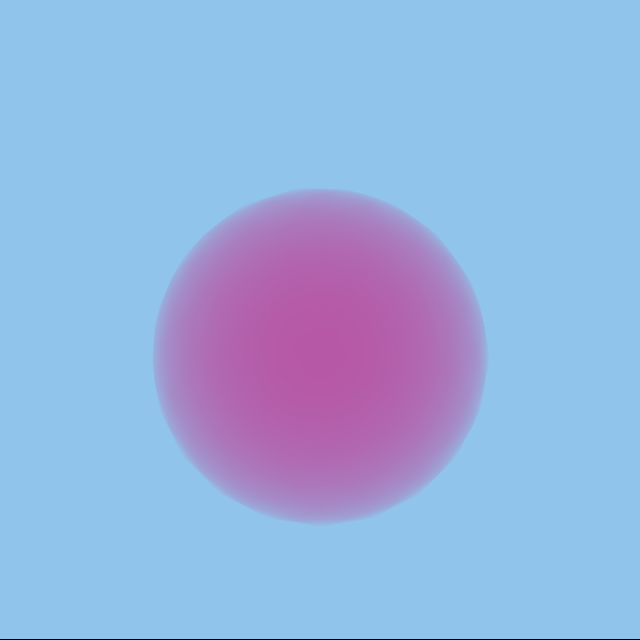
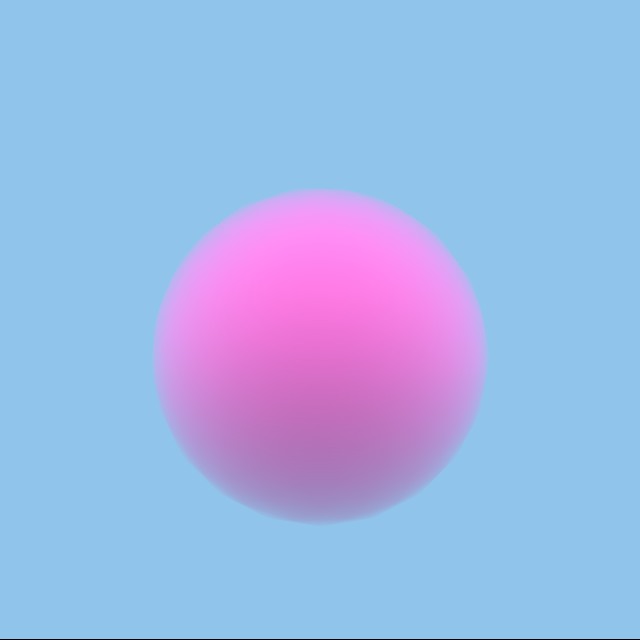
scratchpixel forward ray marcher working

Changed region(s): [[0.2188, 0.2812, 0.7812, 0.6562]]

diff --git a/VolumeRenderer/RayTracer/IntersectionHandlers/ScratchPixel2IntersectionHandler.cpp b/VolumeRenderer/RayTracer/IntersectionHandlers/ScratchPixel2IntersectionHandler.cpp
@@ -10,18 +10,47 @@ Vec3f ScratchPixel2IntersectionHandler::HandleIntersection(HandleIntersectionDat
 		//exit intersection
 		if (data->previousObjectId == data->objectId)
 		{
+			float transparency = 1;
+			Vec3f result = Vec3f(0.0f);
 			auto distance = data->tFar;
+
+			Vec3f light_dir{ 0, 1, 0 };
+			Vec3f light_color{ 0.325, 0.075, 0.225 };
 			auto sigma_a = 1 - material.dissolve;
-			//for now we use the diffuse color of the object as the scattering color
-			auto scatteringColor = Vec3f(material.diffuse[0], material.diffuse[1], material.diffuse[2]);
-			auto transmission = exp(-distance * sigma_a);
 
-			//data->transmissionRemaining = transmission;
-			data->throughput = scatteringColor * (1 - transmission);
+			float step_size = 0.2;
+			int ns = std::ceil(distance / step_size);
+			step_size = distance / ns;
 
-			//data->rayOrigin = data->hitPoint + data->rayDirection * 0.001;
+			auto rayDirection = Utils::normalize(data->rayDirection);
+			auto rayOrigin = data->rayOrigin;
 
-			return data->options.backgroundColor * transmission + scatteringColor * (1 - transmission);
+			for (size_t n = 0; n < ns; n++)
+			{
+				float t = step_size * (n + 0.5f);
+				Vec3f samplePosition = rayOrigin + rayDirection * t;
+
+				//current sample transparency
+				float sampleAttenuation = exp(-step_size * sigma_a);
+
+				// attenuate volume object transparency by current sample transmission value
+				transparency *= sampleAttenuation;
+
+				data->rayDirection = light_dir;
+				data->rayOrigin = samplePosition + data->rayDirection * 0.001;				
+				// In-Scattering. Find the distance traveled by light through 
+				// the volume to our sample point. Then apply Beer's law.							
+				if (Renderer::castSingleRay(data)){
+					auto distanceRayLightToExitInVolume = data->tFar;
+
+					float light_attenuation = exp(-distanceRayLightToExitInVolume * sigma_a);
+					// attenuate in-scattering contrib. by the transmission of all samples accumulated so far
+					result += transparency * light_color * light_attenuation * step_size;
+				}		
+			}						
+
+			// combine background color and volumetric object color
+			return data->options.backgroundColor * transparency + result;
 		}
 		else {
 			data->rayOrigin = data->hitPoint + data->rayDirection * 0.001;

diff --git a/VolumeRenderer/RayTracer/Renderer.cpp b/VolumeRenderer/RayTracer/Renderer.cpp
@@ -102,7 +102,9 @@ Vec3f Renderer::castRay(
 	//Intersects a single ray with the scene
 	rtcIntersect1(data->sceneInfo->scene, &rayhit);
 
-	if (rayhit.hit.geomID != RTC_INVALID_GEOMETRY_ID)
+	data->rayHit = rayhit.hit.geomID != RTC_INVALID_GEOMETRY_ID;
+
+	if (data->rayHit)
 	{
 		data->previousObjectId = data->objectId;
 		data->previousHitPoint = data->hitPoint;
@@ -131,6 +133,40 @@ Vec3f Renderer::castRay(
 	}
 
 	return data->L_total_diffuse;
+}
+
+bool Renderer::castSingleRay(
+	HandleIntersectionData* data)
+{
+	struct RTCRayQueryContext context;
+	rtcInitRayQueryContext(&context);
+
+	struct RTCRayHit rayhit;
+	rayhit.ray.org_x = data->rayOrigin.x; rayhit.ray.org_y = data->rayOrigin.y; rayhit.ray.org_z = data->rayOrigin.z;
+	rayhit.ray.dir_x = data->rayDirection.x; rayhit.ray.dir_y = data->rayDirection.y; rayhit.ray.dir_z = data->rayDirection.z;
+	rayhit.ray.tnear = 0; rayhit.ray.tfar = std::numeric_limits<float>::infinity();
+	rayhit.ray.mask = -1; rayhit.ray.flags = 0;
+	rayhit.hit.geomID = RTC_INVALID_GEOMETRY_ID; rayhit.hit.instID[0] = RTC_INVALID_GEOMETRY_ID;
+
+	//Intersects a single ray with the scene
+	rtcIntersect1(data->sceneInfo->scene, &rayhit);
+
+	data->rayHit = rayhit.hit.geomID != RTC_INVALID_GEOMETRY_ID;
+
+	if (data->rayHit)
+	{
+		data->previousObjectId = data->objectId;
+		data->previousHitPoint = data->hitPoint;
+
+		data->objectId = data->sceneInfo->primitives[rayhit.hit.primID];
+		data->hitPoint = rayhit.ray.tfar * data->rayDirection + data->rayOrigin;
+
+		data->hitNormal = Vec3f(rayhit.hit.Ng_x, rayhit.hit.Ng_y, rayhit.hit.Ng_z);
+
+		data->tFar = rayhit.ray.tfar;
+	}
+
+	return data->rayHit;
 }
 
 // generate primary ray direction

diff --git a/VolumeRenderer/RayTracer/Renderer.h b/VolumeRenderer/RayTracer/Renderer.h
@@ -41,6 +41,7 @@ public:
 	static Vec3f refract(const Vec3f & I, const Vec3f & N, const float & ior);
 	static void fresnel(const Vec3f & I, const Vec3f & N, const float & ior, float & kr);
 	static Vec3f castRay(BaseIntersectionHandler* intersectionHandler, HandleIntersectionData* intersectionData, uint32_t depth, uint32_t reboundFactor);
+	static bool castSingleRay(HandleIntersectionData* intersectionData);
 	static void renderRay(int i, int j, Vec3f * &pix, Vec3f * orig, float imageAspectRatio, float scale, BaseIntersectionHandler* intersectionHandler, HandleIntersectionData* data);
 	static void renderPartial(Vec3f* orig, Vec3f* pix, uint32_t fromHeight, uint32_t toHeight, const Options &options, SceneInfo* scene);
 	

diff --git a/VolumeRenderer/RayTracer/SceneRenderer.cpp b/VolumeRenderer/RayTracer/SceneRenderer.cpp
@@ -54,7 +54,7 @@ void SceneRenderer::RenderScene(Options options)
 	SceneInfo* sceneInfo = SceneLoader::initializeScene(device, options);
 
 	Renderer::render(options, sceneInfo);
-	//Renderer::renderPixel(326, 354, options, sceneInfo);
+	//Renderer::renderPixel(320, 345, options, sceneInfo);
 
 	/* Though not strictly necessary in this example, you should
 	 * always make sure to release resources allocated through Embree. */

diff --git a/VolumeRenderer/RayTracer/Utils/DirectLightSampler.cpp b/VolumeRenderer/RayTracer/Utils/DirectLightSampler.cpp
@@ -1,7 +1,7 @@
 #include "DirectLightSampler.h"
 
 /// <summary>
-/// for now we assume with one light only with multiple vertices
+/// for now we assume area lights are point lights at each vertex
 /// </summary>
 /// <param name="origin"></param>
 /// <param name="sceneInfo"></param>

diff --git a/VolumeRenderer/RayTracer/IntersectionHandlers/BaseIntersectionHandler.h b/VolumeRenderer/RayTracer/IntersectionHandlers/BaseIntersectionHandler.h
@@ -16,6 +16,10 @@ public:
     SceneInfo* sceneInfo;
     Options options;
     float tFar;
+    /// <summary>
+    /// True if the ray hit geometry
+    /// </summary>
+    bool rayHit;
 
     //scratchpixel sample 1
     /*float transmissionRemaining;*/
